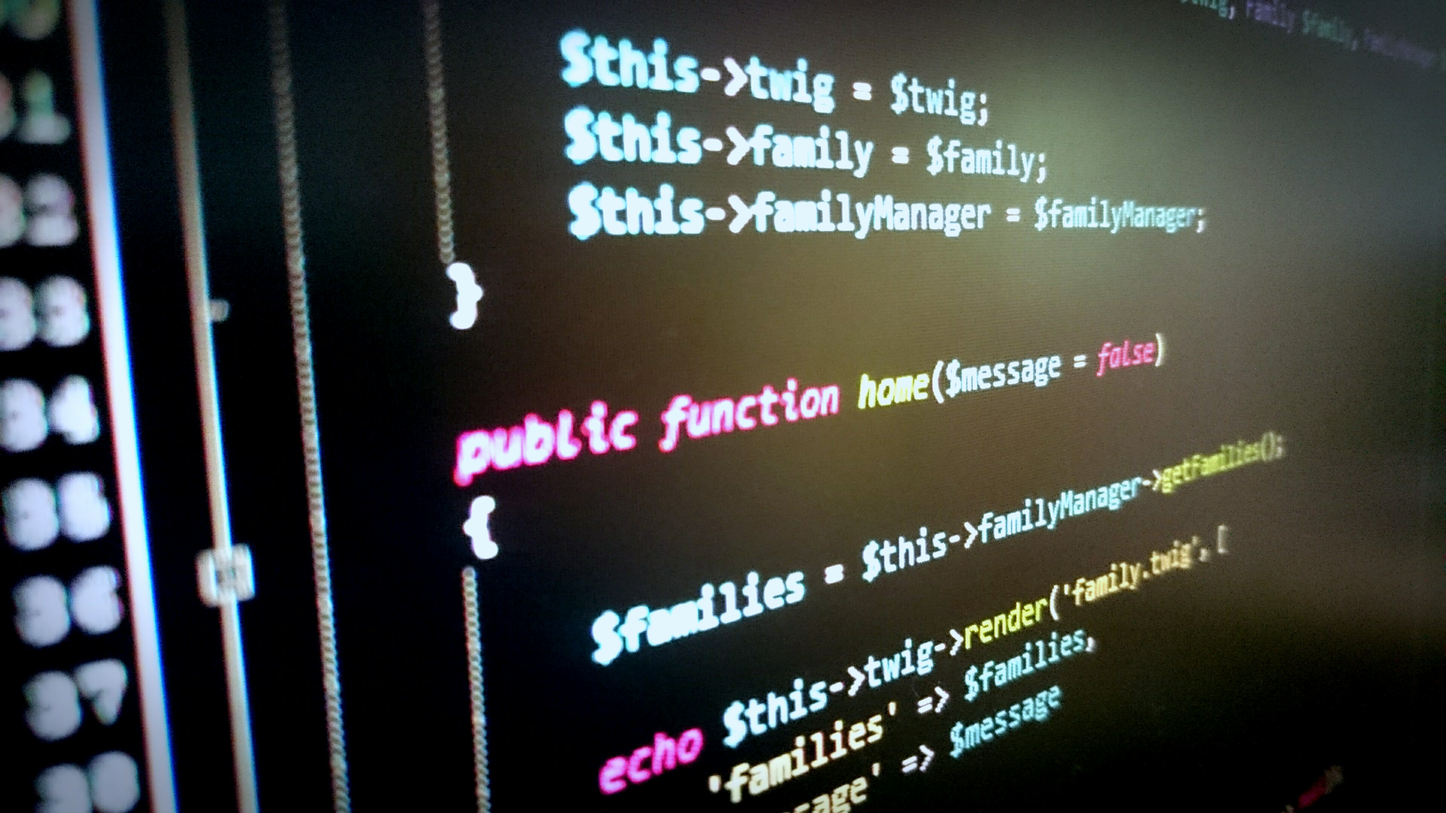
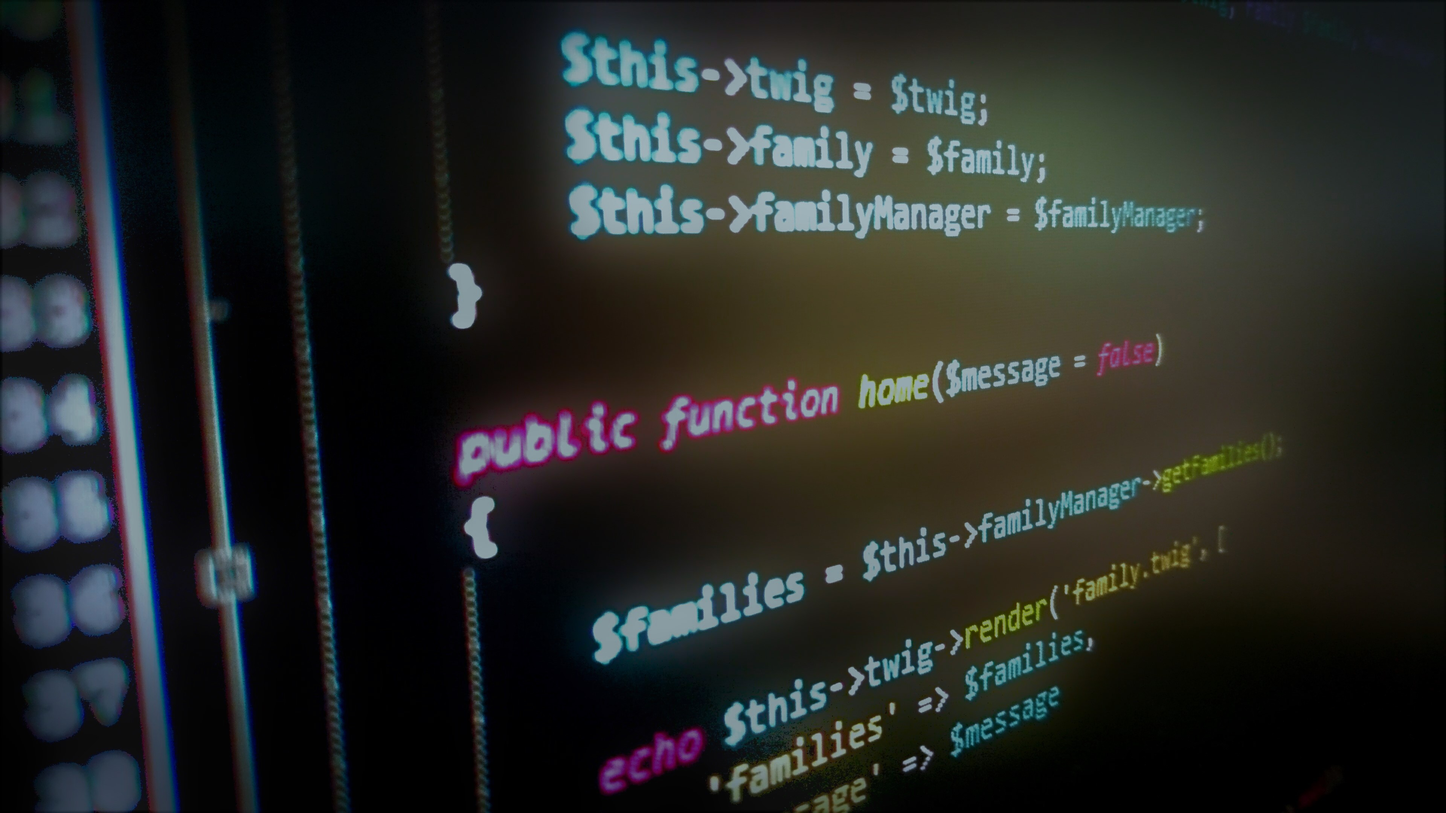
added some images and css

diff --git a/public/frontend/css/style.css b/public/frontend/css/style.css
@@ -10,7 +10,7 @@ and open the template in the editor.
 
 header.masthead .masthead-content .masthead-heading{
 
-    font-size: 2.5rem;
+    font-size: 3rem;
 
 }
 
@@ -46,13 +46,20 @@ header.masthead .masthead-content .masthead-subheading{
 header.masthead{
     background: url('../img/banner.jpg') no-repeat;
     background-size: cover;
-    filter: brightness(50%);
-    /*opacity: 0.8;*/
-    /*background: linear-gradient(0deg, #ff6a00 0%, #ee0979 100%);*/
+    
 }
 
 header.masthead .bg-circle{
     opacity: 0.5;
+}
+
+img.logo{
+    width: 50px;
+}
+
+img.footerlogo{
+    width: 30px;
+   
 }
 
 
